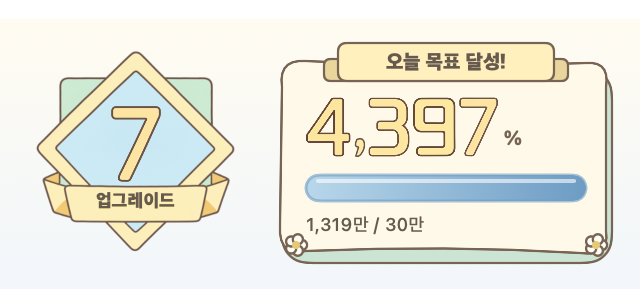
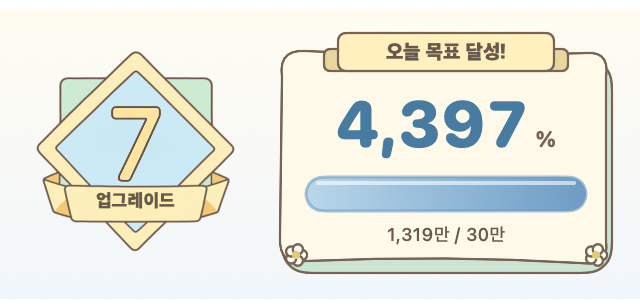
Use readable live percentages and a fuller daily goal gauge

Changed region(s): [[0.4375, 0.0877, 0.9688, 0.526], [0.4375, 0.5552, 0.9688, 0.9058]]

diff --git a/Sources/ChiiBar/DailyGoalCard.swift b/Sources/ChiiBar/DailyGoalCard.swift
@@ -5,6 +5,7 @@ import ChiiCore
 struct DailyGoalCard: View {
     static let target: Int64 = Tuning.dailyTarget
     let earned: Int64
+    @Environment(\.accessibilityReduceMotion) private var reduceMotion
     private var ratio: Double { Double(max(0, earned)) / Double(Self.target) }
     private var percent: String { floor(ratio * 100).formatted(.number.precision(.fractionLength(0))) }
     private var amount: String {
@@ -18,18 +19,23 @@ struct DailyGoalCard: View {
                 .font(.custom("AppleSDGothicNeo-Heavy", size: 10))
                 .frame(maxWidth: .infinity)
                 .padding(.bottom, 4)
-            HStack(alignment: .bottom, spacing: 3) {
-                IllustratedNumber(count: Int(floor(ratio * 100)),
-                    width: min(108, CGFloat(String(Int(floor(ratio * 100))).count) * 24), height: 32)
+            HStack(alignment: .firstTextBaseline, spacing: 3) {
+                Text(percent)
+                    .font(.system(size: 32, weight: .heavy, design: .rounded))
+                    .monospacedDigit()
+                    .foregroundStyle(Ink.rgb(0x477CA0))
+                    .contentTransition(.numericText())
+                    .animation(reduceMotion ? nil : .easeOut(duration: 0.35), value: percent)
+                    .lineLimit(1).minimumScaleFactor(0.35)
                 Text("%")
-                    .font(.system(size: 10, weight: .bold, design: .rounded))
+                    .font(.system(size: 11, weight: .bold, design: .rounded))
                     .foregroundStyle(Ink.rgb(0x776454))
-                    .padding(.bottom, 4)
                     .fixedSize()
             }
             .frame(maxWidth: .infinity, alignment: .center)
             .padding(.bottom, 2)
-            ProgressTrack(fraction: min(1, ratio), sweepFrom: nil, fixedNow: .distantPast)
+            ProgressTrack(fraction: min(1, ratio), sweepFrom: nil, fixedNow: .distantPast,
+                          animatesChanges: !reduceMotion, height: 17)
                 .accessibilityHidden(true)
             Text("\(amount) / \(Self.target / 10_000)만")
                 .font(.system(size: 9, weight: .medium))

diff --git a/Sources/ChiiBar/PopoverView.swift b/Sources/ChiiBar/PopoverView.swift
@@ -395,6 +395,7 @@ struct ProgressTrack: View {
     var baseline: Double? = nil
     var animatesChanges = true
     var endpointElapsed: Double? = nil
+    var height: CGFloat = 13
     var body: some View {
         GeometryReader { g in
             ZStack(alignment: .leading) {
@@ -409,7 +410,7 @@ struct ProgressTrack: View {
                 }
             }
         }
-        .frame(height: 13)
+        .frame(height: height)
         .clipShape(Capsule())
         .overlay(Capsule().stroke(Theme.accent.opacity(0.6), lineWidth: 1.5))
         .overlay(alignment: .top) { Capsule().fill(.white.opacity(0.6)).frame(height: 2).padding(.horizontal, 5).padding(.top, 2).allowsHitTesting(false) }

diff --git a/README.md b/README.md
@@ -3,13 +3,13 @@
 Claude Code와 Codex를 쓰는 동안, 치이카와 친구가 토큰을 먹고 비박부터 초고층 빌딩 펜트하우스까지 집을 지어 가는 macOS 팬 앱입니다.
 토큰이 쌓여 게이지가 가득 차면 업그레이드 버튼을 눌러 한 단계씩 이사합니다. 남은 경험치는 새 집에서 이어 채워집니다.
 
-**v0.4.19 — 130% 커진 집과 친구, 한눈에 읽히는 오늘의 대시보드.**
+**v0.4.20 — 130% 커진 집과 친구, 한눈에 읽히는 오늘의 대시보드.**
 
 현재 집과 친구를 이전보다 130% 크게 표시합니다. 오늘의 대시보드는 제목·날짜 헤더, 업그레이드 횟수와 목표 달성률의 두 영역, 갈색 외곽선으로 묶었습니다. 업그레이드 버튼이 나타나도 하단이 잘리지 않도록 창 높이를 조정했습니다.
 
 비와 눈은 실제 날씨와 관계없는 게임 연출입니다. 20분 주기 중 비는 75초, 눈은 90초 동안 내리고 앞뒤 6초에 걸쳐 부드럽게 바뀝니다. 벽돌집부터는 비를 피하며 친구마다 눈에 폴짝거리거나 추위를 타는 반응이 다릅니다. 표정은 기존 검토된 그림을 사용합니다. 원작의 특정 장면을 재현했다는 뜻은 아닙니다. 햇볕 효과는 없고, 움직임 줄이기 설정에서는 눈·비와 반응 동작이 정지합니다.
 
-업그레이드 배지와 목표 달성률에는 같은 반듯한 그림 숫자를 사용하며, 천 단위 쉼표를 표시합니다.
+업그레이드 배지에는 반듯한 그림 숫자를 사용합니다. 오늘의 목표는 파란색의 굵은 일반 숫자와 더 두꺼운 게이지로 표시하며, 천 단위 쉼표를 유지합니다.
 별도 가입이나 API 키 없이, Mac에 남는 Codex·Claude Code 사용 기록으로 자랍니다. 앱 자체는 무료이며 AI 서비스 이용료는 별도입니다.
 
 **[최신 버전 다운로드](https://github.com/kitesik/ChiiBar/releases/latest)**
@@ -33,7 +33,7 @@ brew install --cask kitesik/tap/chiibar
 
 macOS 14 Sonoma 이상이 필요합니다. 배포 파일은 Apple Silicon과 Intel Mac 공용입니다.
 
-1. 위 링크에서 `ChiiBar-0.4.19-universal.zip`을 다운로드합니다.
+1. 위 링크에서 `ChiiBar-0.4.20-universal.zip`을 다운로드합니다.
 2. 압축을 풀고 `ChiiBar.app`을 응용 프로그램 폴더로 옮깁니다.
 3. 앱을 실행하고 화면 상단 메뉴 막대의 작은 캐릭터 아이콘을 누릅니다.
 4. 첫 화면에서 **첫 친구 뽑기**를 누르세요. 무료 뽑기권 1장으로 전체 9명 중 한 친구를 만납니다.
